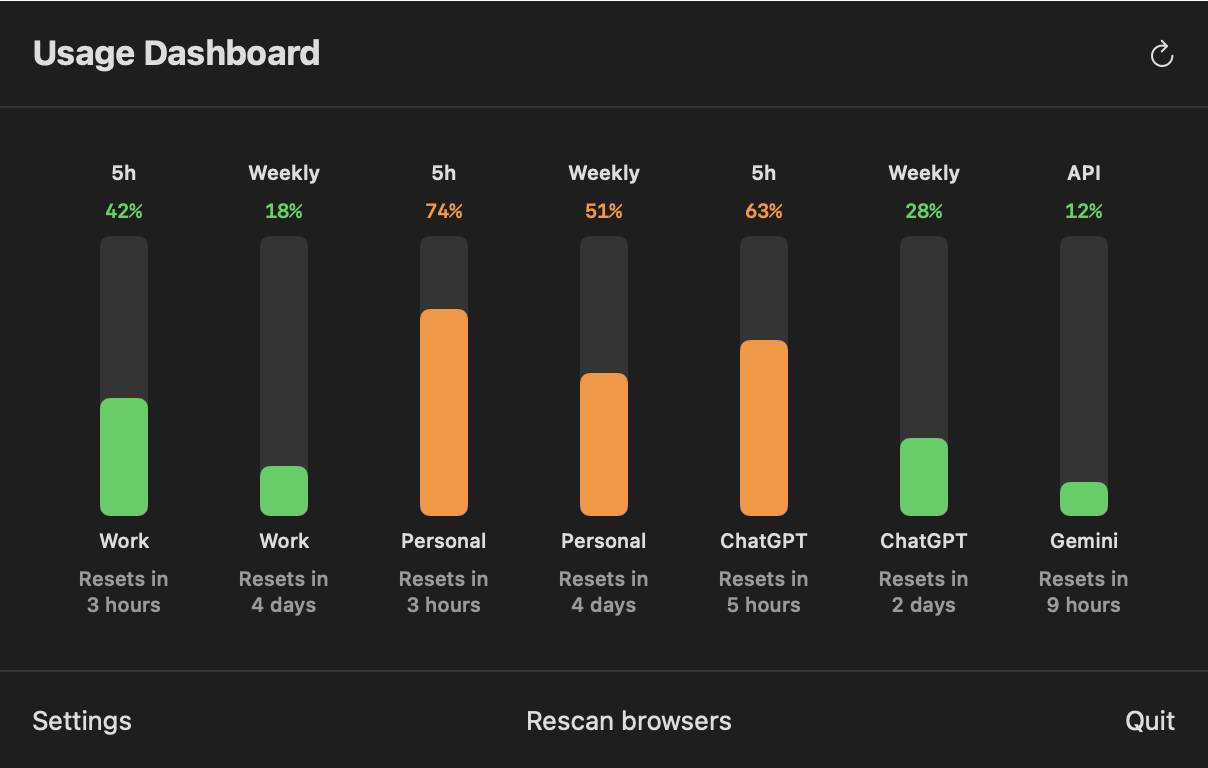
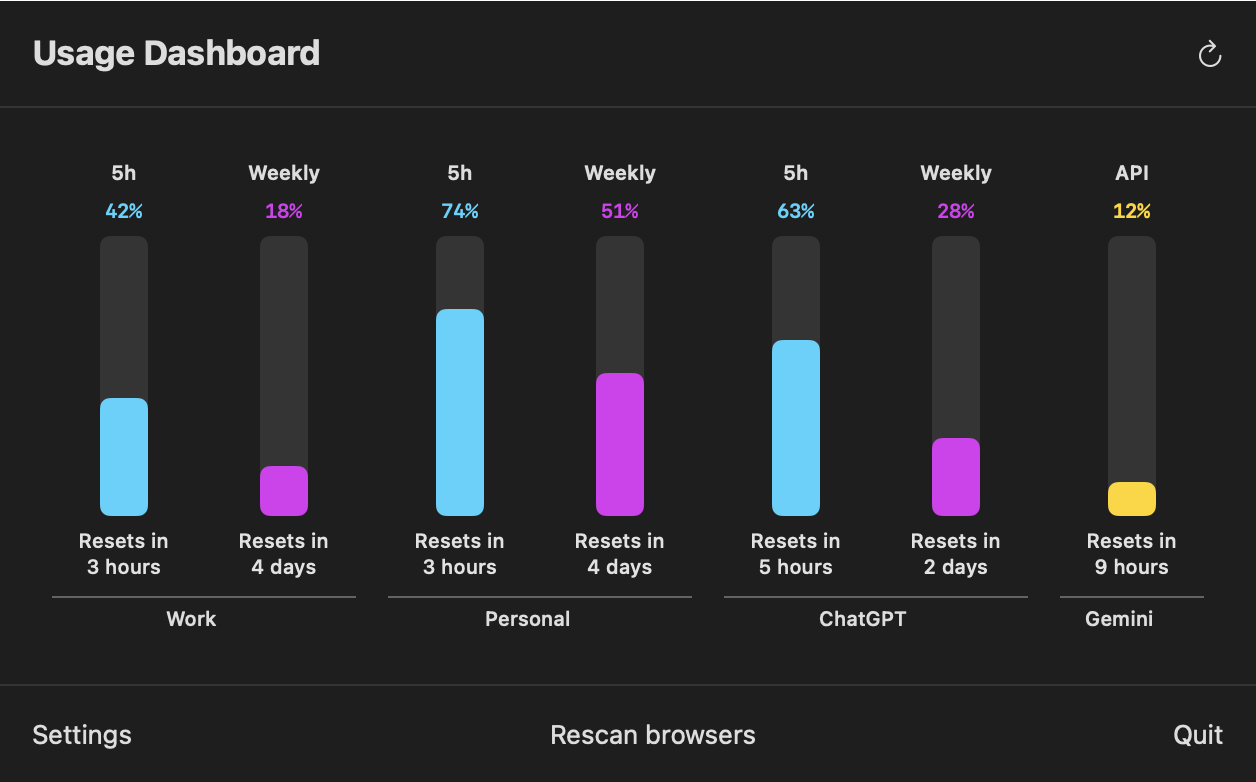
docs: refresh features and screenshots

diff --git a/README.md b/README.md
@@ -2,37 +2,39 @@
 
 **All your AI usage. One glance.**
 
-Pinemeter is a macOS menu bar app that watches every quota that can stop you mid-flow: Claude's 5-hour and weekly windows across all your accounts, ChatGPT's plan limits, and Gemini API usage. Live meters in the menu bar, an annotated dashboard in the popover, and notifications before you hit a wall.
+Pinemeter is a macOS menu bar app that watches every quota that can stop you mid-flow: Claude's 5-hour, weekly, and Fable windows across all your accounts, ChatGPT plan limits, and Gemini API quota data when available. Live meters in the menu bar, an annotated dashboard in the popover, and notifications before you hit a wall.
 
 A [Pineit](https://pineit.ca) project.
 
 <p align="center">
-  <img src="docs/popover.png" width="604" alt="Pinemeter popover showing quota bars for two Claude accounts, ChatGPT, and Gemini">
+  <img src="docs/popover.png" width="628" alt="Pinemeter popover showing cyan 5-hour, purple weekly, and yellow API quota bars for two Claude accounts, ChatGPT, and Gemini">
 </p>
 
-The menu bar shows the same meters in miniature, in the same order, so the popover doubles as the legend:
+The menu bar shows up to 12 meters in miniature and in popover order. Cyan is a 5-hour window, purple is weekly, yellow is a special or API quota, and any meter at 90% or higher turns red.
 
 <p align="center">
-  <img src="docs/menubar-icon.png" width="150" alt="Pinemeter menu bar icon with one mini meter per quota">
+  <img src="docs/menubar-icon.png" width="150" alt="Pinemeter menu bar icon with cyan, purple, and yellow mini meters matching the popover quota order">
 </p>
 
 ## Features
 
-- **Every quota as a live meter** - one bar per limit, colour-coded by how close you are to the ceiling, with reset countdowns
-- **Multiple Claude accounts** - one click scans your open browsers (Chrome, Safari, Firefox, every profile) and connects each signed-in Claude subscription; 5-hour, weekly, and optional Sonnet-weekly bars per account
-- **ChatGPT plan limits** - session and weekly quota rows imported from your browser session
-- **Gemini API quota** - connect an API key to track usage
-- **Threshold notifications** - native macOS alerts at configurable warning and critical levels, plus session-reset notices
+- **Every quota as a live meter** - one bar per limit, colour-coded by quota type, with reset countdowns and a red near-limit state
+- **Multiple Claude accounts** - one click scans your open browsers (Chrome, Safari, Firefox, every profile) and connects each signed-in Claude subscription; 5-hour, weekly, and optional Fable bars per account
+- **ChatGPT plan limits** - 5-hour, weekly, and additional plan quota rows imported from your browser session
+- **Gemini integration** - connect an API key for quota visibility when Google's response exposes it
+- **Account controls** - rename accounts, disconnect them, or exclude them from future browser scans
+- **Threshold notifications** - configurable in-app and native macOS alerts for primary Claude 5-hour usage, plus optional reset celebrations
+- **Signed in-app updates** - release checks, update notifications, and one-click upgrades from the popover
 - **Local JSON export** - `~/.pinemeter/usage.json` for scripts, shell prompts, and dashboards
-- **Auto-refresh** - updates every 1, 5, or 10 minutes
+- **Auto-refresh and launch at login** - updates every 1, 5, or 10 minutes and can start automatically with macOS
 
 ## Privacy and security
 
-Your credentials never leave your Mac:
+Your provider credentials stay under your control:
 
 - Browser sessions are imported from your own local browser cookie stores and saved in the **macOS Keychain**, never in files or preferences
 - Credentials are sent only to the provider they belong to (claude.ai, chatgpt.com, Google), only to read usage data
-- No analytics, no telemetry, no third-party servers
+- No analytics or telemetry; GitHub is contacted only to check for and download signed updates
 - Error messages and logs are sanitized so credential material can never leak into them - enforced by tests (`PinemeterTests/SecurityInvariantTests.swift`)
 
 Pinemeter is not App-Sandboxed because its core import feature reads browser cookie databases, which live outside any app container. Safari imports additionally require Full Disk Access; the app will point you to the right System Settings pane when needed.
@@ -58,23 +60,21 @@ Then copy the built `Pinemeter.app` from the build products directory into `/App
 
 1. Launch Pinemeter - a gauge icon appears in the menu bar.
 2. Sign in to claude.ai (and optionally chatgpt.com) in your browser.
-3. Click the icon and choose **Scan open browsers**. Every signed-in account is detected and connected.
+3. Click the icon and choose **Scan open browsers**. Every detected Claude account and one ChatGPT session are connected.
 4. Optionally add a Gemini API key in Settings.
-
-If browser import is unavailable, paste a Claude session key manually in Settings; Pinemeter accepts `sessionKey=sk-ant-...` cookie strings.
 
 ## Usage
 
 - **Popover** - click the menu bar icon for the full dashboard: one labelled column per quota, percentage, reset time, and per-account attribution. **Rescan browsers** in the footer reconnects sessions after they expire.
-- **Menu bar** - one mini meter per quota, identical order to the popover. Hover for a tooltip naming each bar.
-- **Settings** - refresh interval, Sonnet visibility, icon colour, notification thresholds, and credential management (validate, repair, clear).
+- **Menu bar** - up to 12 mini meters in popover order. Hover for a tooltip naming each bar.
+- **Settings** - accounts, refresh interval, Fable visibility, launch at login, reset celebrations, notification thresholds, and credential management (validate, repair, clear).
 
 ### JSON export
 
-Pinemeter writes usage to `~/.pinemeter/usage.json` on every refresh, for use in scripts and status lines:
+Pinemeter writes primary Claude usage to `~/.pinemeter/usage.json` on every refresh, for use in scripts and status lines:
 
 ```bash
-jq '.sessionUsage.utilization' ~/.pinemeter/usage.json
+jq '.session_usage.utilization' ~/.pinemeter/usage.json
 ```
 
 ## Development
@@ -92,7 +92,7 @@ Debug builds include a demo mode with synthetic data, useful for screenshots and
 Pinemeter.app/Contents/MacOS/Pinemeter --demo multiProvider --open-popover-after-launch
 ```
 
-Modes: `safeUsage`, `warningUsage`, `criticalUsage`, `exceededUsage`, `withSonnet`, `multiProvider`, `loading`, `error`, `setupWizard`. Add `--render-screenshots <dir>` to write popover and menu bar PNGs and exit.
+Modes: `safeUsage`, `warningUsage`, `criticalUsage`, `exceededUsage`, `withFable`, `multiProvider`, `loading`, `error`, `setupWizard`. Add `--render-screenshots <dir>` to write popover and menu bar PNGs and exit.
 
 ## License
 